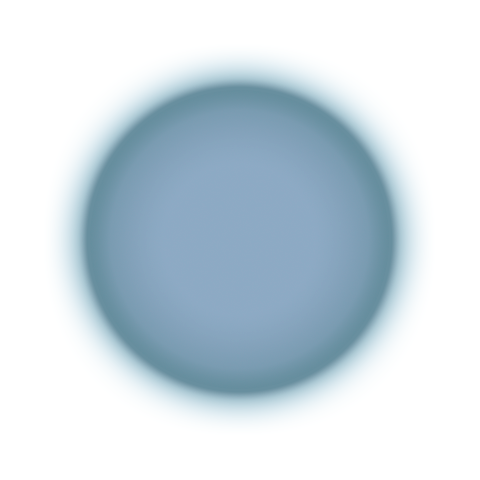
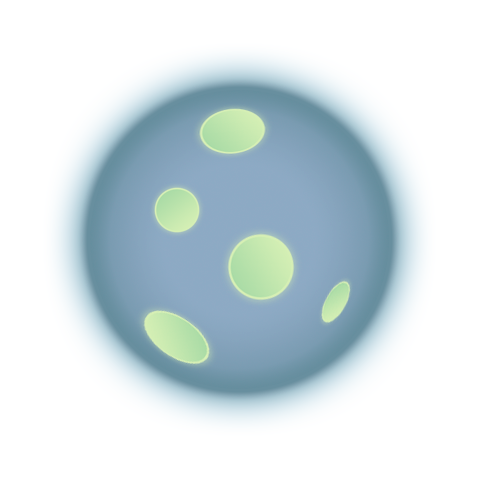
fd
fd

diff --git a/SDLTest - Copy/src/Scripts/Common/PredefinedSceneHelper.cpp b/SDLTest - Copy/src/Scripts/Common/PredefinedSceneHelper.cpp
@@ -62,9 +62,12 @@ void PredefinedSceneHelper::addMainSceneObjects(GameObjectManager* manager)
 
 void PredefinedSceneHelper::addGameSceneAssets(int enemyCount)
 {
+	TextureManager::get().loadTexture("BigPlanet", "assets/_Art/BackgroundArt/BigPlanet.png");
+	TextureManager::get().loadTexture("Planet2", "assets/_Art/BackgroundArt/Planet2.png");
 	SoundManager::Instance()->loadEffect("shootSound", "assets/_Art/Audio/singleShot.mp3");
-	TextureManager::get().loadTexture("smallStarGroup1", "assets/_Art/BackgroundArt/SmallStarGroup.png");
 
+	TextureManager::get().loadTexture("smallStarGroup1", "assets/_Art/BackgroundArt/SmallStarGroup.png");
+	TextureManager::get().loadTexture("Planet", "assets/_Art/BackgroundArt/Planet.png");
 	TextureManager::get().loadTexture("healthBar", "assets/_Art/PNG/points_powerup_lifes.png");
 	TextureManager::get().loadTexture("loadingBar", "assets/_Art/PNG/loading.png");
 	TextureManager::get().loadTexture("waveCounterBar", "assets/_Art/PNG/points_powerup_lifes_03.png");
@@ -85,8 +88,8 @@ void PredefinedSceneHelper::addGameSceneAssets(int enemyCount)
 void PredefinedSceneHelper::addGameSceneObjects(GameObjectManager* manager, ObjectPool* bulletPool, GameObject* playerObj, GameObject* scoreLabel, GameObject * healthLabel,
 	GameObject* waveLabel, GameObject* cooldownLable)
 {
-
 	addGameSceneBackgroundObjects(manager);
+
 
 	GameObject *healthImage = new GameObject();
 	healthImage->addComponent<Sprite>(Game::get().getRenderer(), "healthBar");
@@ -221,5 +224,30 @@ void PredefinedSceneHelper::addGameSceneBackgroundObjects(GameObjectManager* man
 		tempX += 600;
 
 	}
-//C:\Users\Gento_PC\OneDrive\Desktop\SpaceShooting - master\Assets\_Art\BackgroundArt
+
+	
+		GameObject* Planet1 = new GameObject();
+		Planet1->addComponent<Sprite>(Game::get().getRenderer(), "Planet");
+		Planet1->getComponent<Transform>().position = { 300,200 };
+		Planet1->addComponent<BackgroundEffect>(0, 0.2, true);
+		Planet1->getComponent<Transform>().scale = 0.5;
+
+		manager->addGameObject(Planet1);
+
+		GameObject* BigPlanet = new GameObject();
+		BigPlanet->addComponent<Sprite>(Game::get().getRenderer(), "BigPlanet");
+		BigPlanet->getComponent<Transform>().position = { 1300,-200 };
+		BigPlanet->addComponent<BackgroundEffect>(0, 0.2, true);
+
+		manager->addGameObject(BigPlanet);
+
+		
+		GameObject* Planet2 = new GameObject();
+		Planet2->addComponent<Sprite>(Game::get().getRenderer(), "Planet2");
+		Planet2->getComponent<Transform>().position = { 1600,700 };
+		Planet2->addComponent<BackgroundEffect>(0, 0.2, true);
+		Planet2->getComponent<Transform>().scale = 0.5;
+
+		manager->addGameObject(Planet2);
+
 }

diff --git a/SDLTest - Copy/src/Scenes/GameScene.cpp b/SDLTest - Copy/src/Scenes/GameScene.cpp
@@ -15,7 +15,6 @@ void GameScene::init()
 
 	Game::get().unPauseGame(); // Unpausing all the updates as the scene is init and previous memory scene has been cleaned
 	GameScore::get().initScore(); // Set Score to Zero as its a new Game
-	PredefinedSceneHelper::addGameSceneAssets(enemyCount); // Adding Textures and Scounds that are gonna be used in this scene
 
 	waveLabel = new GameObject();
 	coolDownLabel = new GameObject();
@@ -24,10 +23,10 @@ void GameScene::init()
 	healthLabel = new GameObject();
 
 	GameObject* enemySpawner = new GameObject(); // GameObject will be outside the screen where enemies will Spawn .
+	PredefinedSceneHelper::addGameSceneAssets(enemyCount); // Adding Textures and Scounds that are gonna be used in this scene
+	PredefinedSceneHelper::addGameSceneObjects(manager, bulletPool, playerObj, scoreLabel, healthLabel, waveLabel, coolDownLabel);	// Add Scene GameObjects
 	enemySpawner->addComponent<EnemySpawner>().initSpawnerWithDelay(manager, bulletPool, playerObj, true, enemyCount);
 	manager->addGameObject(enemySpawner);
-
-	PredefinedSceneHelper::addGameSceneObjects(manager, bulletPool, playerObj, scoreLabel, healthLabel, waveLabel, coolDownLabel);	// Add Scene GameObjects
 
 }
 

diff --git a/SDLTest - Copy/src/Scripts/Enemy/Enemy.cpp b/SDLTest - Copy/src/Scripts/Enemy/Enemy.cpp
@@ -5,6 +5,7 @@
 #include "../../Game Engine/GameObject/Components/UILabel.h"
 #include "../../Scripts/Common/GameScore.h"
 #include"../../Game Engine/GameObject/Components/Rigibody2D.h"
+#include"../../Game Engine/Essentials/SoundManager/SoundManager.h"
 
 Enemy::Enemy(ObjectPool* bPool, ObjectPool* ePool, GameObject* player) {
 	bulletPool = bPool;
@@ -18,6 +19,7 @@ void Enemy::onTriggerEnter2D(GameObject* other) {
 		GameScore::get().incrementGameScore(23);
 		enemyPool->returnGameObject(gameObject);
 
+		
 		if (other->getComponent<BoxCollider2D>().getColisionTag() == "Bullet") {
 			bulletPool->returnGameObject(other);
 

diff --git a/SDLTest - Copy/src/Scripts/Enemy/EnemySpawner.h b/SDLTest - Copy/src/Scripts/Enemy/EnemySpawner.h
@@ -26,6 +26,7 @@ private:
 
 	int maxSpawnRateInSeconds = 10;
 	int minSpawnRateInSeconds = 8;
+
 public :
 
 	EnemySpawner() = default;
